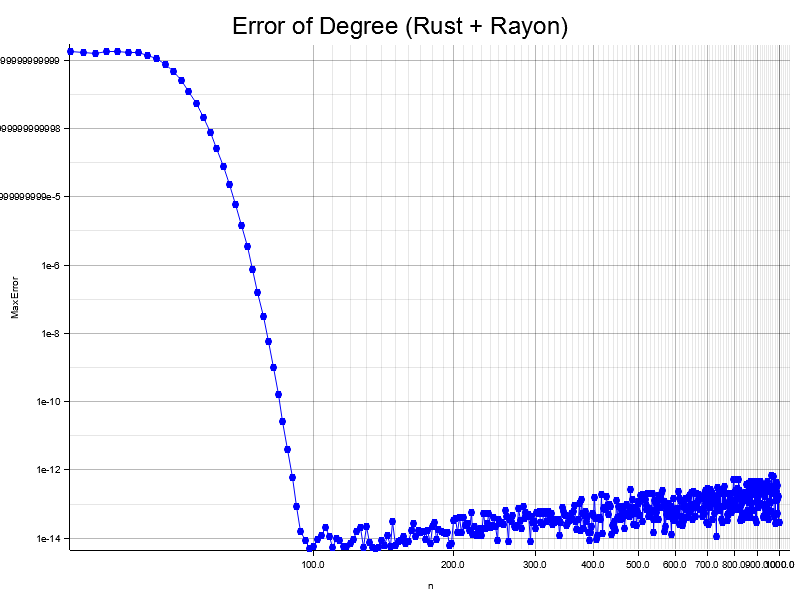
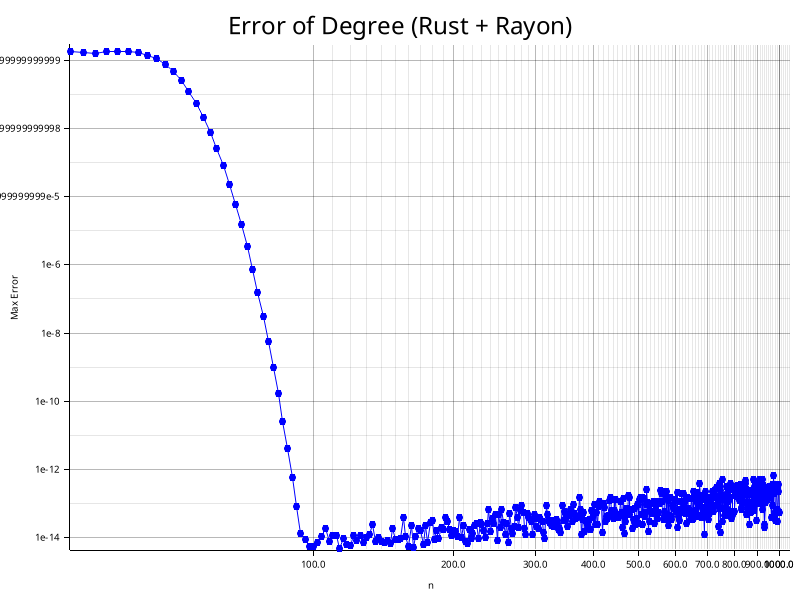
1.12man

diff --git a/src/bin/cute.rs b/src/bin/cute.rs
@@ -1,4 +1,4 @@
-use image::{GenericImageView, imageops::FilterType, Rgba};
+use image::{GenericImageView, Rgba, imageops::FilterType};
 use std::env;
 
 fn main() {
@@ -21,7 +21,7 @@ fn main() {
     // 终端一行通常在 80-120 字符左右。
     // 这张图比较宽，我们设置宽度为 80，高度会自动计算。
     let target_width = 80;
-    
+
     // 计算目标高度。
     // 注意：因为我们用 "▀" 字符，一个字符包含垂直的2个像素。
     // 所以我们在缩放时，要保持原本的宽高比，不用像普通ASCII那样把高度减半。
@@ -47,13 +47,13 @@ fn generate_utf8_art(img: &image::DynamicImage, width: u32, height: u32) -> Stri
         for x in 0..width {
             // 获取上半部分像素 (前景色)
             let top_pixel = img.get_pixel(x, y);
-            
+
             // 获取下半部分像素 (背景色)
             // 处理边界：如果是最后一行且是奇数行，下面没有像素了，就设为透明/黑色
             let bottom_pixel = if y + 1 < height {
                 img.get_pixel(x, y + 1)
             } else {
-                Rgba([0, 0, 0, 0]) 
+                Rgba([0, 0, 0, 0])
             };
 
             // 拼接 ANSI 转义序列
@@ -62,8 +62,12 @@ fn generate_utf8_art(img: &image::DynamicImage, width: u32, height: u32) -> Stri
             // ▀ 字符利用前景色填满上半格，背景色填满下半格
             let chunk = format!(
                 "\x1b[38;2;{r1};{g1};{b1}m\x1b[48;2;{r2};{g2};{b2}m▀",
-                r1 = top_pixel[0], g1 = top_pixel[1], b1 = top_pixel[2],
-                r2 = bottom_pixel[0], g2 = bottom_pixel[1], b2 = bottom_pixel[2]
+                r1 = top_pixel[0],
+                g1 = top_pixel[1],
+                b1 = top_pixel[2],
+                r2 = bottom_pixel[0],
+                g2 = bottom_pixel[1],
+                b2 = bottom_pixel[2]
             );
             result.push_str(&chunk);
         }
@@ -73,3 +77,4 @@ fn generate_utf8_art(img: &image::DynamicImage, width: u32, height: u32) -> Stri
 
     result
 }
+
